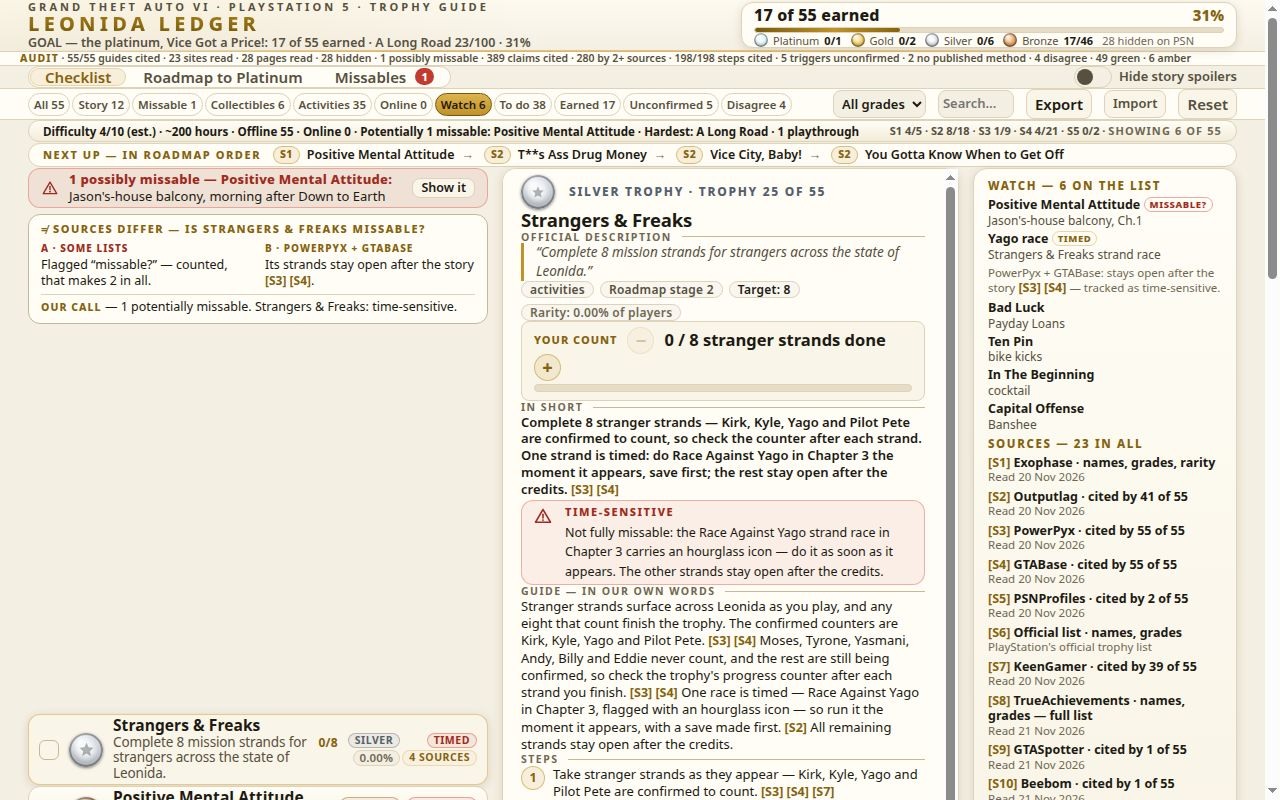
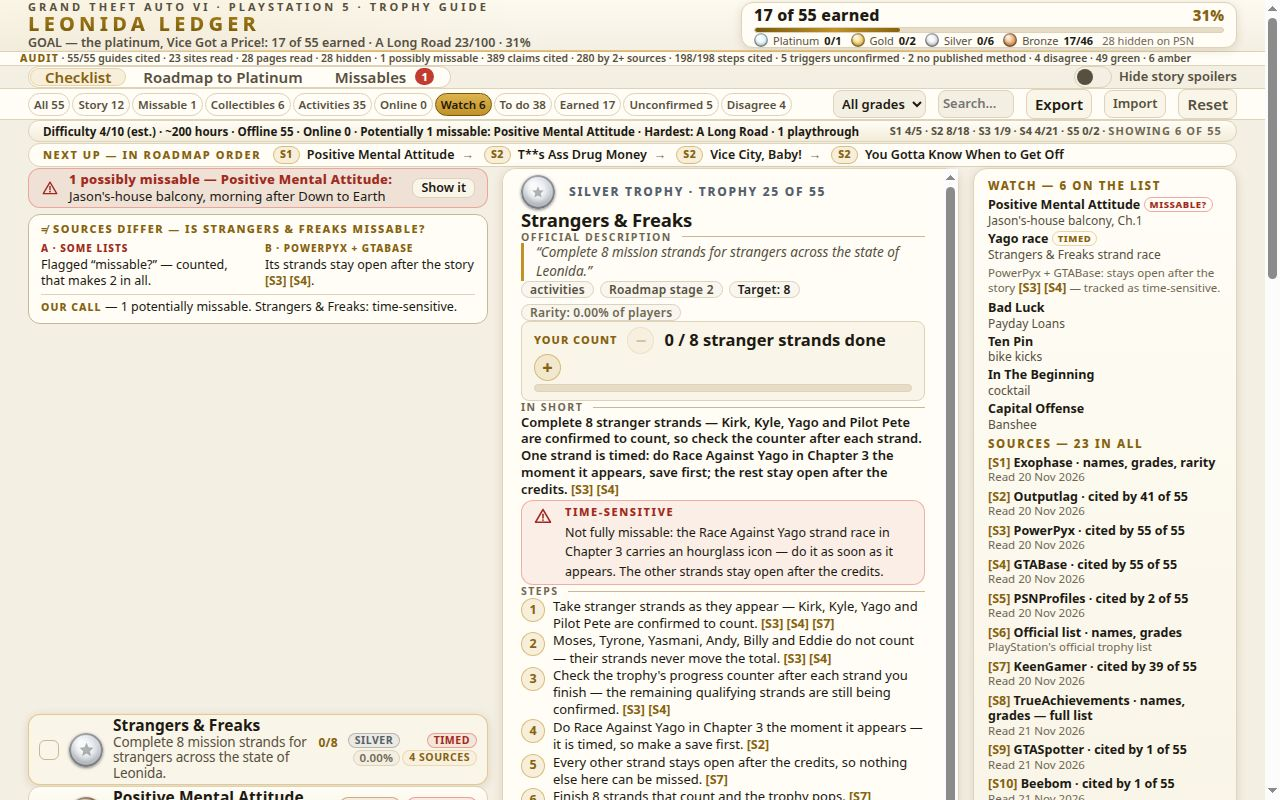
v25: cover panel steps first — steps ahead of the honesty box and guide prose, six PMA steps whole in frame

Changed region(s): [[0.4062, 0.7188, 0.7188, 1.0]]

diff --git a/app/app.js b/app/app.js
@@ -1608,21 +1608,19 @@ function renderDetail() {
     if (trophy.missable && trophy.missableNote) {
       detailPanel.append(alertElement(trophy));
     }
-    const uncertain = UNCERTAIN_NOTES[trophy.id];
-    if (uncertain) {
-      const refs = citedRefs(trophy, uncertain.ref);
-      if (refs.length) detailPanel.append(honestyBox(uncertain.label, uncertain.text, refs));
-    } else if (trophy.triggerUnknown) {
-      const refs = citedRefs(trophy, ['S3', 'S2', 'S4']).slice(0, 1);
-      detailPanel.append(honestyBox(
-        'Trigger not yet confirmed',
-        'No published guide has a confirmed trigger for this trophy, so the guide below is the best sourced reading, not a confirmed method.',
-        refs,
-      ));
-    }
-    detailPanel.append(sectionLabel('Guide — in our own words'));
-    detailPanel.append(guideParagraph(trophy));
-
+    /* v25: the steps stand ahead of the honesty box and the
+       guide prose. The panel is a framed column (the 800px
+       shot takes it from y=175): with the honesty box and the
+       prose ahead of them, the cover showed only the first
+       two of PMA's thirteen steps, the second cut at the
+       frame's edge. Measured on v24: the steps began at
+       y=719 and the first five need 209px, so they must
+       start by y=586; moving the honesty box (85px) and the
+       guide block (99px) below the steps starts them at
+       y=535 — six steps stand whole in the cover frame. The
+       missable alert still stands directly ahead of the
+       steps it warns about, and every block the panel
+       carried is still in the panel — only the order moved. */
     if (trophy.steps && trophy.steps.length) {
       detailPanel.append(sectionLabel('Steps'));
       const steps = document.createElement('ol');
@@ -1637,6 +1635,20 @@ function renderDetail() {
       }
       detailPanel.append(steps);
     }
+    const uncertain = UNCERTAIN_NOTES[trophy.id];
+    if (uncertain) {
+      const refs = citedRefs(trophy, uncertain.ref);
+      if (refs.length) detailPanel.append(honestyBox(uncertain.label, uncertain.text, refs));
+    } else if (trophy.triggerUnknown) {
+      const refs = citedRefs(trophy, ['S3', 'S2', 'S4']).slice(0, 1);
+      detailPanel.append(honestyBox(
+        'Trigger not yet confirmed',
+        'No published guide has a confirmed trigger for this trophy, so the guide below is the best sourced reading, not a confirmed method.',
+        refs,
+      ));
+    }
+    detailPanel.append(sectionLabel('Guide — in our own words'));
+    detailPanel.append(guideParagraph(trophy));
   }
 
   // The panel's sources in one line (v14): the registry itself —
